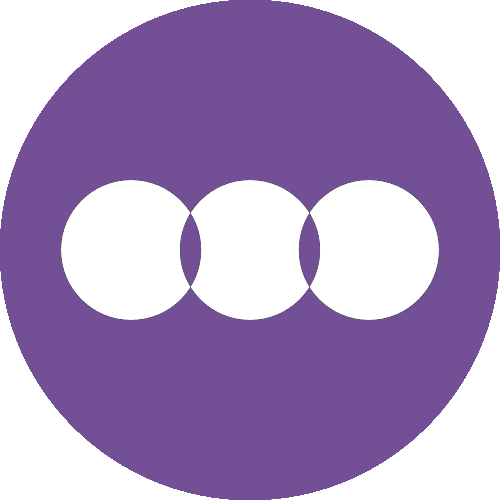
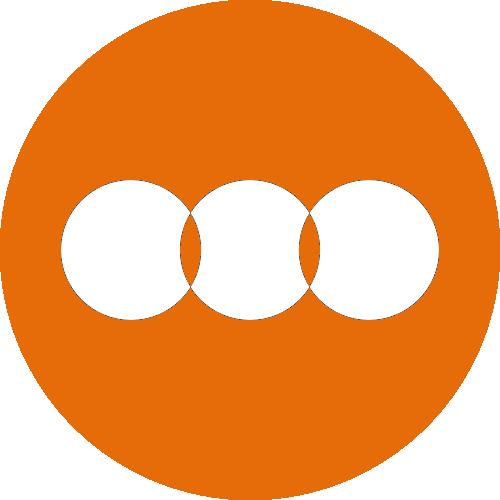
Changed Accent Color

diff --git a/style.css b/style.css
@@ -1,5 +1,5 @@
 :root {
-    --lavender: #734F96;
+    --accent-color: #E66B09;
 }
 * {
     box-sizing: border-box;
@@ -17,7 +17,7 @@ footer {
     height: 60px;
     text-align: center;
     font-size: smaller;
-    color: var(--lavender);
+    color: var(--accent-color);
     animation-name: footer;
     animation-duration: 1s;
 }
@@ -28,7 +28,7 @@ a:active {
     text-decoration: none;
 }
 a:hover {
-    color: var(--lavender);
+    color: var(--accent-color);
 }
 
 /*Animations */
@@ -53,7 +53,7 @@ a:hover {
 /*Dropdown Menus */
 
 .listhead {
-    color: var(--lavender);
+    color: var(--accent-color);
     font-size: 24px;
 }
 .dropdown {
@@ -111,7 +111,7 @@ input {
     border-bottom-style: soild;
     border-left-style: hidden;
     border-right-style: hidden;
-    border-bottom-color: var(--lavender);
+    border-bottom-color: var(--accent-color);
     text-align: center;
     outline: 0;
     height: 3em;
@@ -125,7 +125,7 @@ input {
 
 .blogpost {
     border-style: solid;
-    border-color: var(--lavender);
+    border-color: var(--accent-color);
     text-align: center;
     margin-bottom: auto;
     margin-left: 30px;
